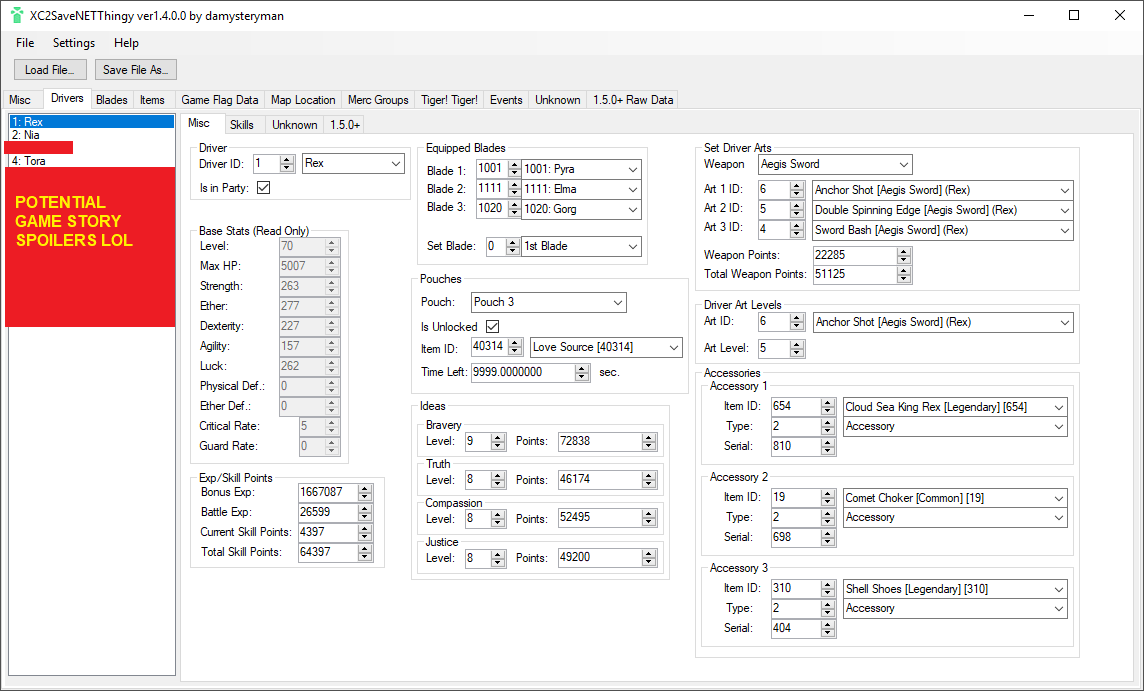
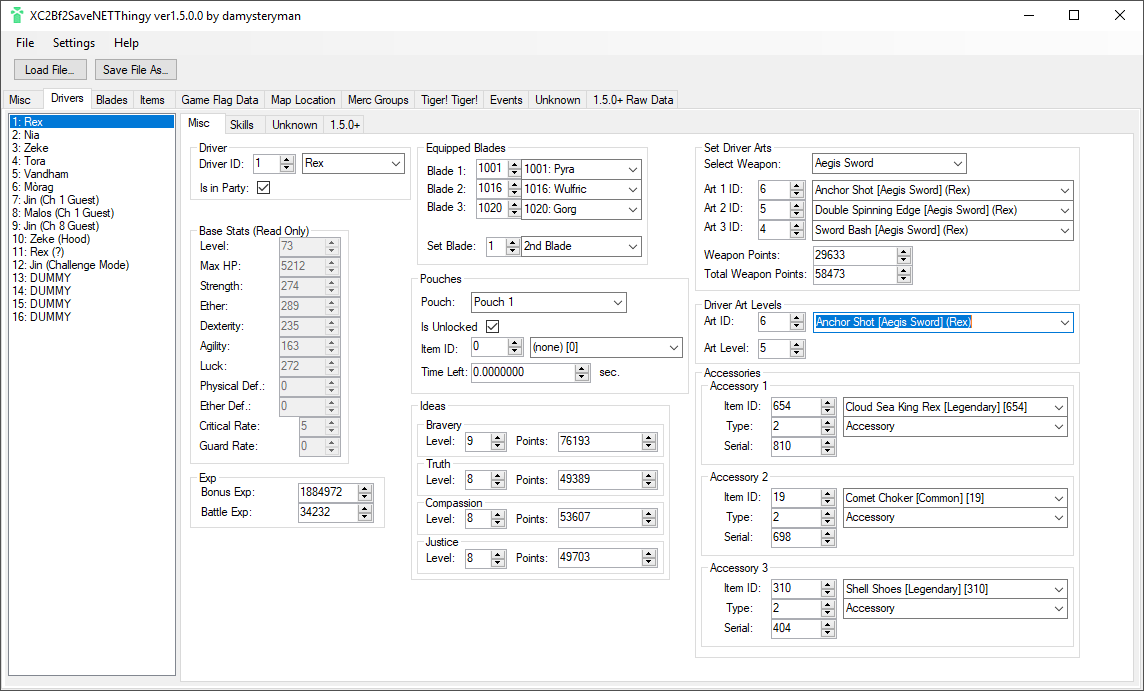
Update README, CHANGELOG, Screnshots for Release 6

diff --git a/README.md b/README.md
@@ -1,10 +1,16 @@
 # XC2SaveNETThingy
-## A Windows PC Save Editor for Xenoblade Chronicles 2
+## A Windows PC Save Editor package for Xenoblade Chronicles 2 + XC2 Torna The Golden Country Expansion
 
-**WARNING! Back up your save file before modifying it!**
+**WARNING! BACK UP YOUR SAVE FILES BEFORE MODIFYING THEM!**
 
+### XC2Bf2SaveNETThingy - For Xenoblade 2 base game
 This app can edit just about every byte of data in a Xenoblade Chronicles 2 Save File.
-This includes changing data to values that could not normally be obtained via regular gameplay.
+
+### XC2IraSaveNETThingy - For XC2 Torna The Golden Country Expansion
+This app can change a lot of data in a XC2 Torna The Golden Country Save File.
+
+These include changing data to values that could not normally be obtained via regular gameplay.
+
 
 ## Links:
 Gitlab Repo - [https://gitlab.com/damysteryman/XC2SaveNETThingy]
@@ -21,17 +27,17 @@ Running under other environments under things like wine/mono have not been teste
 First you must obtain your save file in some way, and get it from your Switch to your PC. A good way to do this is to use the [Checkpoint Save Manager Switch Homebrew App](https://github.com/BernardoGiordano/Checkpoint), or something similar.
 
 ### 2. BACK IT UP!
-Beefore going any further, be sure to make a backup copy of your extracted save file, and store it in a safe place. This is just in case you change some data to values that the game itself does not like.
+Before going any further, be sure to make a backup copy of your extracted save file, and store it in a safe place. This is just in case you change some data to values that the game itself does not like.
 
 ### 3. Load it into the app.
-Start the app, then click the "Load Save File..." button to select and load your save file, and the file should be loaded into the program, provided there are no issues with it.
+Start the app, then click the "Load Save File..." button to select and load your save file ("bf2savefile.sav" for base game save file, "irasavefile.sav" for Torna Expansion save file), and the file should be loaded into the program, provided there are no issues with it.
 
 ### 4. Edit stuff!
 Edit whatever fields you want! Keep in mind that the game may react strangely after loading in save data with values that are not obtainable via normal gameplay.
 (Not that it should stop you from trying and experimenting, let's see how far the game can be pushed! :P)
 
 ### 5. Save your edited file.
-After you are done editing, click the "Save File As..." button to save your save data to a file. the file needs to be called "bf2savefile.sav" for the game to recognize it.
+After you are done editing, click the "Save File As..." button to save your save data to a file. For the game to recognize it, the file needs to be called "bf2savefile.sav" for base game saves, or "irasavefile.sav" for Torna Expansion saves.
 
 ### 6. Restore the save file to the console.
 After that, you must restore it back to your Switch console. Again, this can be done with the [Checkpoint Save Manager Switch Homebrew App](https://github.com/BernardoGiordano/Checkpoint), or something similar.
@@ -44,10 +50,12 @@ Finally, load up the game and your save, and enjoy your changes/see your data al
 	* The game may be perfectly happy with your changes and run fine, changes and all
 	* The game may refuse your changes and reset them back to what they were supposed to be, as if your edit was never done.
 	* The game may try to run with your changes, only to not be programmed to handle your alterations and crash instead.
+	* Remember, just because you have the power to alter the save data to whatever you want, does NOT mean that the game itself will be happy with everything you try to do!
 
-2. There has been limited testing done on the results of save editing on the game's side of things. While some testing has been done to ensure that the editor does in fact modify the correct part of the save for each field in the app, since there are no "safety gloves" or "hand holding" regarding what data values are allowed or not, the alterations that this app can make have not necessarily been tested in-game, and thus, it is not yet known exactly how the game will react to modifying every single field that is editable, especially if modified to values that cannot be obtained via normal gameplay. If you wish to experiment with this sort of stuff, then by all means do so, and please report your findings if you like. But please do make sure to backup your save file beforehand if you care about it! (So far, this app has only been tested with saves from versions 1.3.0 and 1.5.0/1.5.1/1.5.2/2.0.0 of Game + DLC)
+2. There has been limited testing done on the results of save editing on the game's side of things. While some testing has been done to ensure that the editor does in fact modify the correct part of the save for each field in the app, since there are no "safety gloves" or "hand holding" regarding what data values are allowed or not, the alterations that this app can make have not necessarily been tested in-game, and thus, it is not yet known exactly how the game will react to modifying every single field that is editable, especially if modified to values that cannot be obtained via normal gameplay. If you wish to experiment with this sort of stuff, then by all means do so, and please report your findings if you like. But please do make sure to backup your save file beforehand if you care about it! (So far, this app has only been tested with saves from versions 1.3.0 and 1.5.0/1.5.1/1.5.2/2.0.0/2.0.1 of Base Game + DLC, and 1.0.0/1.0.1 of Torna The Golden Country)
 
 ## Some Screenshots
+### XC2Bf2SaveNETThingy - For Xenoblade Chroniches 2 base game
 ![Main](Screenshots/SCR_1.PNG)
 
 ![Driver](Screenshots/SCR_2.PNG)
@@ -57,3 +65,14 @@ Finally, load up the game and your save, and enjoy your changes/see your data al
 ![Item](Screenshots/SCR_4.PNG)
 
 ![FlagData](Screenshots/SCR_5.PNG)
+
+### XC2IraSaveNETThingy - For XC2 Torna The Golden Country Expansion
+![MainIra](Screenshots/SCR_6.PNG)
+
+![Char1](Screenshots/SCR_7.PNG)
+
+![Char2](Screenshots/SCR_8.PNG)
+
+![Char3](Screenshots/SCR_9.PNG)
+
+![ItemIra](Screenshots/SCR_10.PNG)

diff --git a/CHANGELOG.md b/CHANGELOG.md
@@ -1,5 +1,22 @@
 # CHANGELOG
 
+## Release 6 (Release versioning changed due to conversion to multi-component package)
+### XC2SaveNETThingy Core v1.0
+Separated all the core backend stuff into a separate .dll file
+- UPDATE: Added proper support for handling v1.5.0 data
+- NEW: Added support for handling Torna Golden Country save data
+- UPDATE: Fixed typos in GUI Text data and changed a few field names to reduce confusion (Select Weapon text for Driver Arts, Blade Special Recast Rev to Damage Multiplier)
+
+### XC2Bf2SaveNETThingy v1.5
+Properly handles Driver v1.5.0+ data + other fixes/updates
+- UPDATE: Now properly handles Driver v1.5.0+ specific data
+- BUGFIX: Driver ListBox could become blank if loading a save file after having already loaded one
+- UPDATE: Moved Driver Skill Points GroupBox to Driver Affinity Chart tab
+
+### XC2IraSaveNETThingy v1.0
+Initial Release
+- NEW: Created Save Editor for Torna Golden Country Save Files
+
 ## v1.4
 Quick Bugfix Release + DB update to handle 2.0.0 content
 - UPDATE: Identified BladeArtsExId and BladeArtsEx2Id as Blade Special IV IDs
@@ -7,19 +24,19 @@ Quick Bugfix Release + DB update to handle 2.0.0 content
 - UPDATE: Added controls to more easily edit Blade Special IV
 - UPDATE: Moved Blade Specials to new tab, separate from Blade Arts
 - UPDATE: Added 2.0.0/Torna DLC Content to db (Names, Arts, Items etc.)
-- NEW FEATURE: Added setting to enable/disable the ability to edit Read-Only fields
+- NEW: Added setting to enable/disable the ability to edit Read-Only fields
 
 ## v1.3
 New Features from User Requests
-- NEW FEATURE: Added Item sort function (Can sort by ID, Name, Qty, Equipped, Time Obtained, or Serial by clicking respective column header in Item grid
-- NEW FEATURE: Added button to Max out Qty of all Items in currently viewed Item Box
+- NEW: Added Item sort function (Can sort by ID, Name, Qty, Equipped, Time Obtained, or Serial by clicking respective column header in Item grid
+- NEW: Added button to Max out Qty of all Items in currently viewed Item Box
 
 ## v1.2
 New Features + Ver 1.5.2 Support
-- NEW FEATURE: Added Blade Import/Export to/from File
-- NEW FEATURE: Added Existing Item search function
-- NEW FEATURE: Added Easy-Add New Item to ItemBox function
-- NEW FEATURE: Added Right-Click menu for Items to set Acquired Time to Current Time, and to Auto-Generate New Serial for an Item
+- NEW: Added Blade Import/Export to/from File
+- NEW: Added Existing Item search function
+- NEW: Added Easy-Add New Item to ItemBox function
+- NEW: Added Right-Click menu for Items to set Acquired Time to Current Time, and to Auto-Generate New Serial for an Item
 - UPDATE: Changed how ComboBoxes show their data so name comes first, to allow for easy searching by typing into ComboBox
 - UPDATE: Completely overhauled Game Flag Data section, now are several lists instead of hex box, also known Flags have ben named, such as Blade Awakening Videos Watched, or various other game stats (ex. some are used for Affinity Charts)
 - UPDATE: Made Driver Stats, and some Rare Blade stats Read Only to avoid confusion since the game ignores those values anyway
@@ -29,7 +46,7 @@ New Features + Ver 1.5.2 Support
 
 ## v1.1
 Update to support Ver 1.5.1 DLC + Affinity Chart Import/Export
-- NEW FEATURE: Added ability to Import/Export Blade Affinity Chart Data to/from file
+- NEW: Added ability to Import/Export Blade Affinity Chart Data to/from file
 - UPDATE: Updated data files to support Ver 1.5.1 DLC
 - UPDATE: Updated data files to recognise Driver: Jin (Challenge Mode)
 
